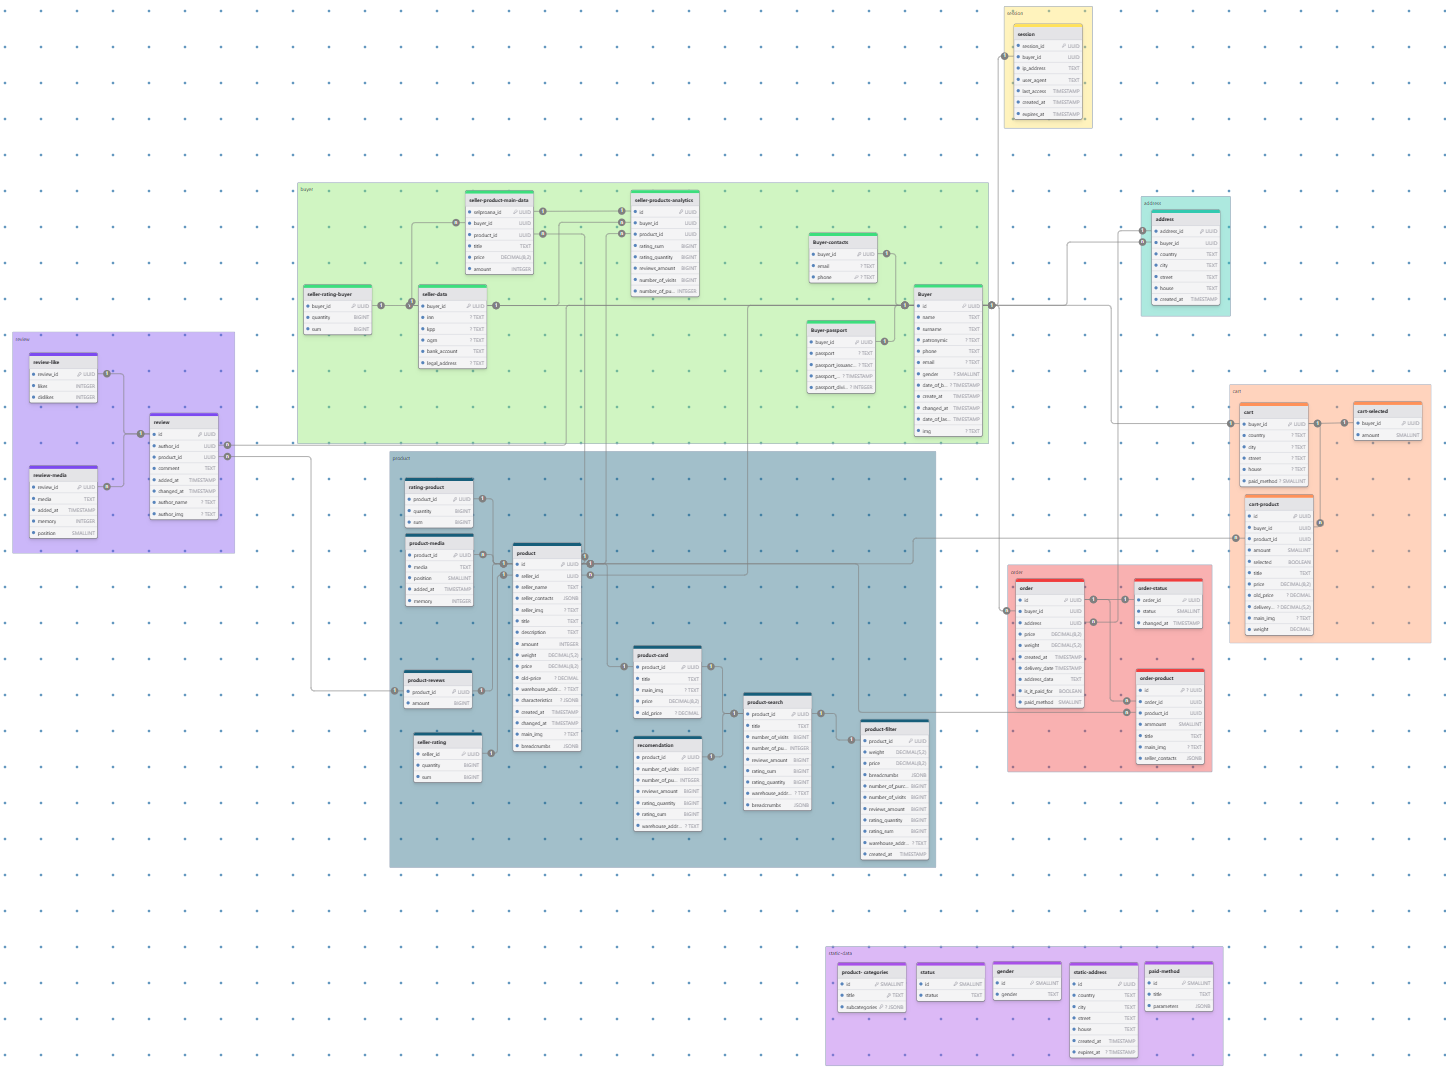
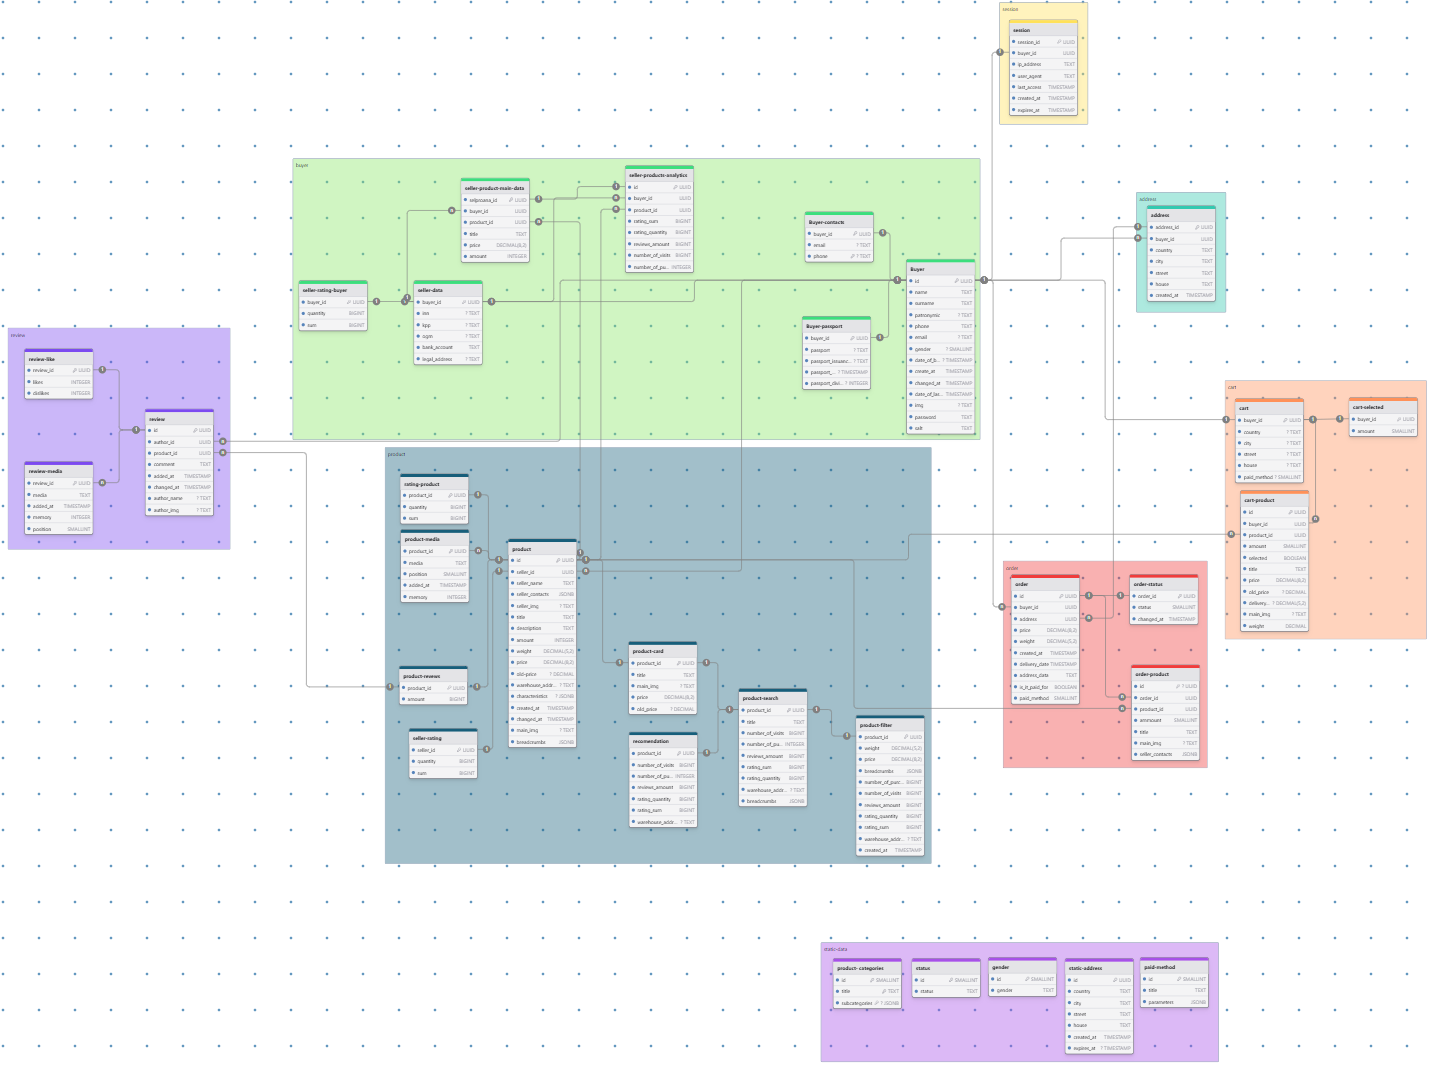
[fix] Логическая схема БД

diff --git a/README.md b/README.md
@@ -779,7 +779,7 @@ Anycast позволяет оптимизировать маршрутизаци
 
 ## 5. Логическая схема БД <a name="логическая-схема-бд"></a>
 
-Полную версию бд можно посмотреть по ссылке [https://www.drawdb.app/editor?shareId=86e884a95f07b6c54e7cde1be41e9474](https://www.drawdb.app/editor?shareId=86e884a95f07b6c54e7cde1be41e9474)
+Полную версию схемы бд можно посмотреть по ссылке [https://www.drawdb.app/editor?shareId=bb55c722dd7178259de6a0d6dae28be4](https://www.drawdb.app/editor?shareId=bb55c722dd7178259de6a0d6dae28be4)
 
 Либо на изображении и приближенных фрагментах, указанных ниже:
 
@@ -791,7 +791,7 @@ Anycast позволяет оптимизировать маршрутизаци
 
 *Пользователь:*
 
-![img_1.png](img%2F5%2Fimg_1.png)
+![img_1.png](img%2F5%2Fimg_1.png) 
 
 *Сессия:*
 
